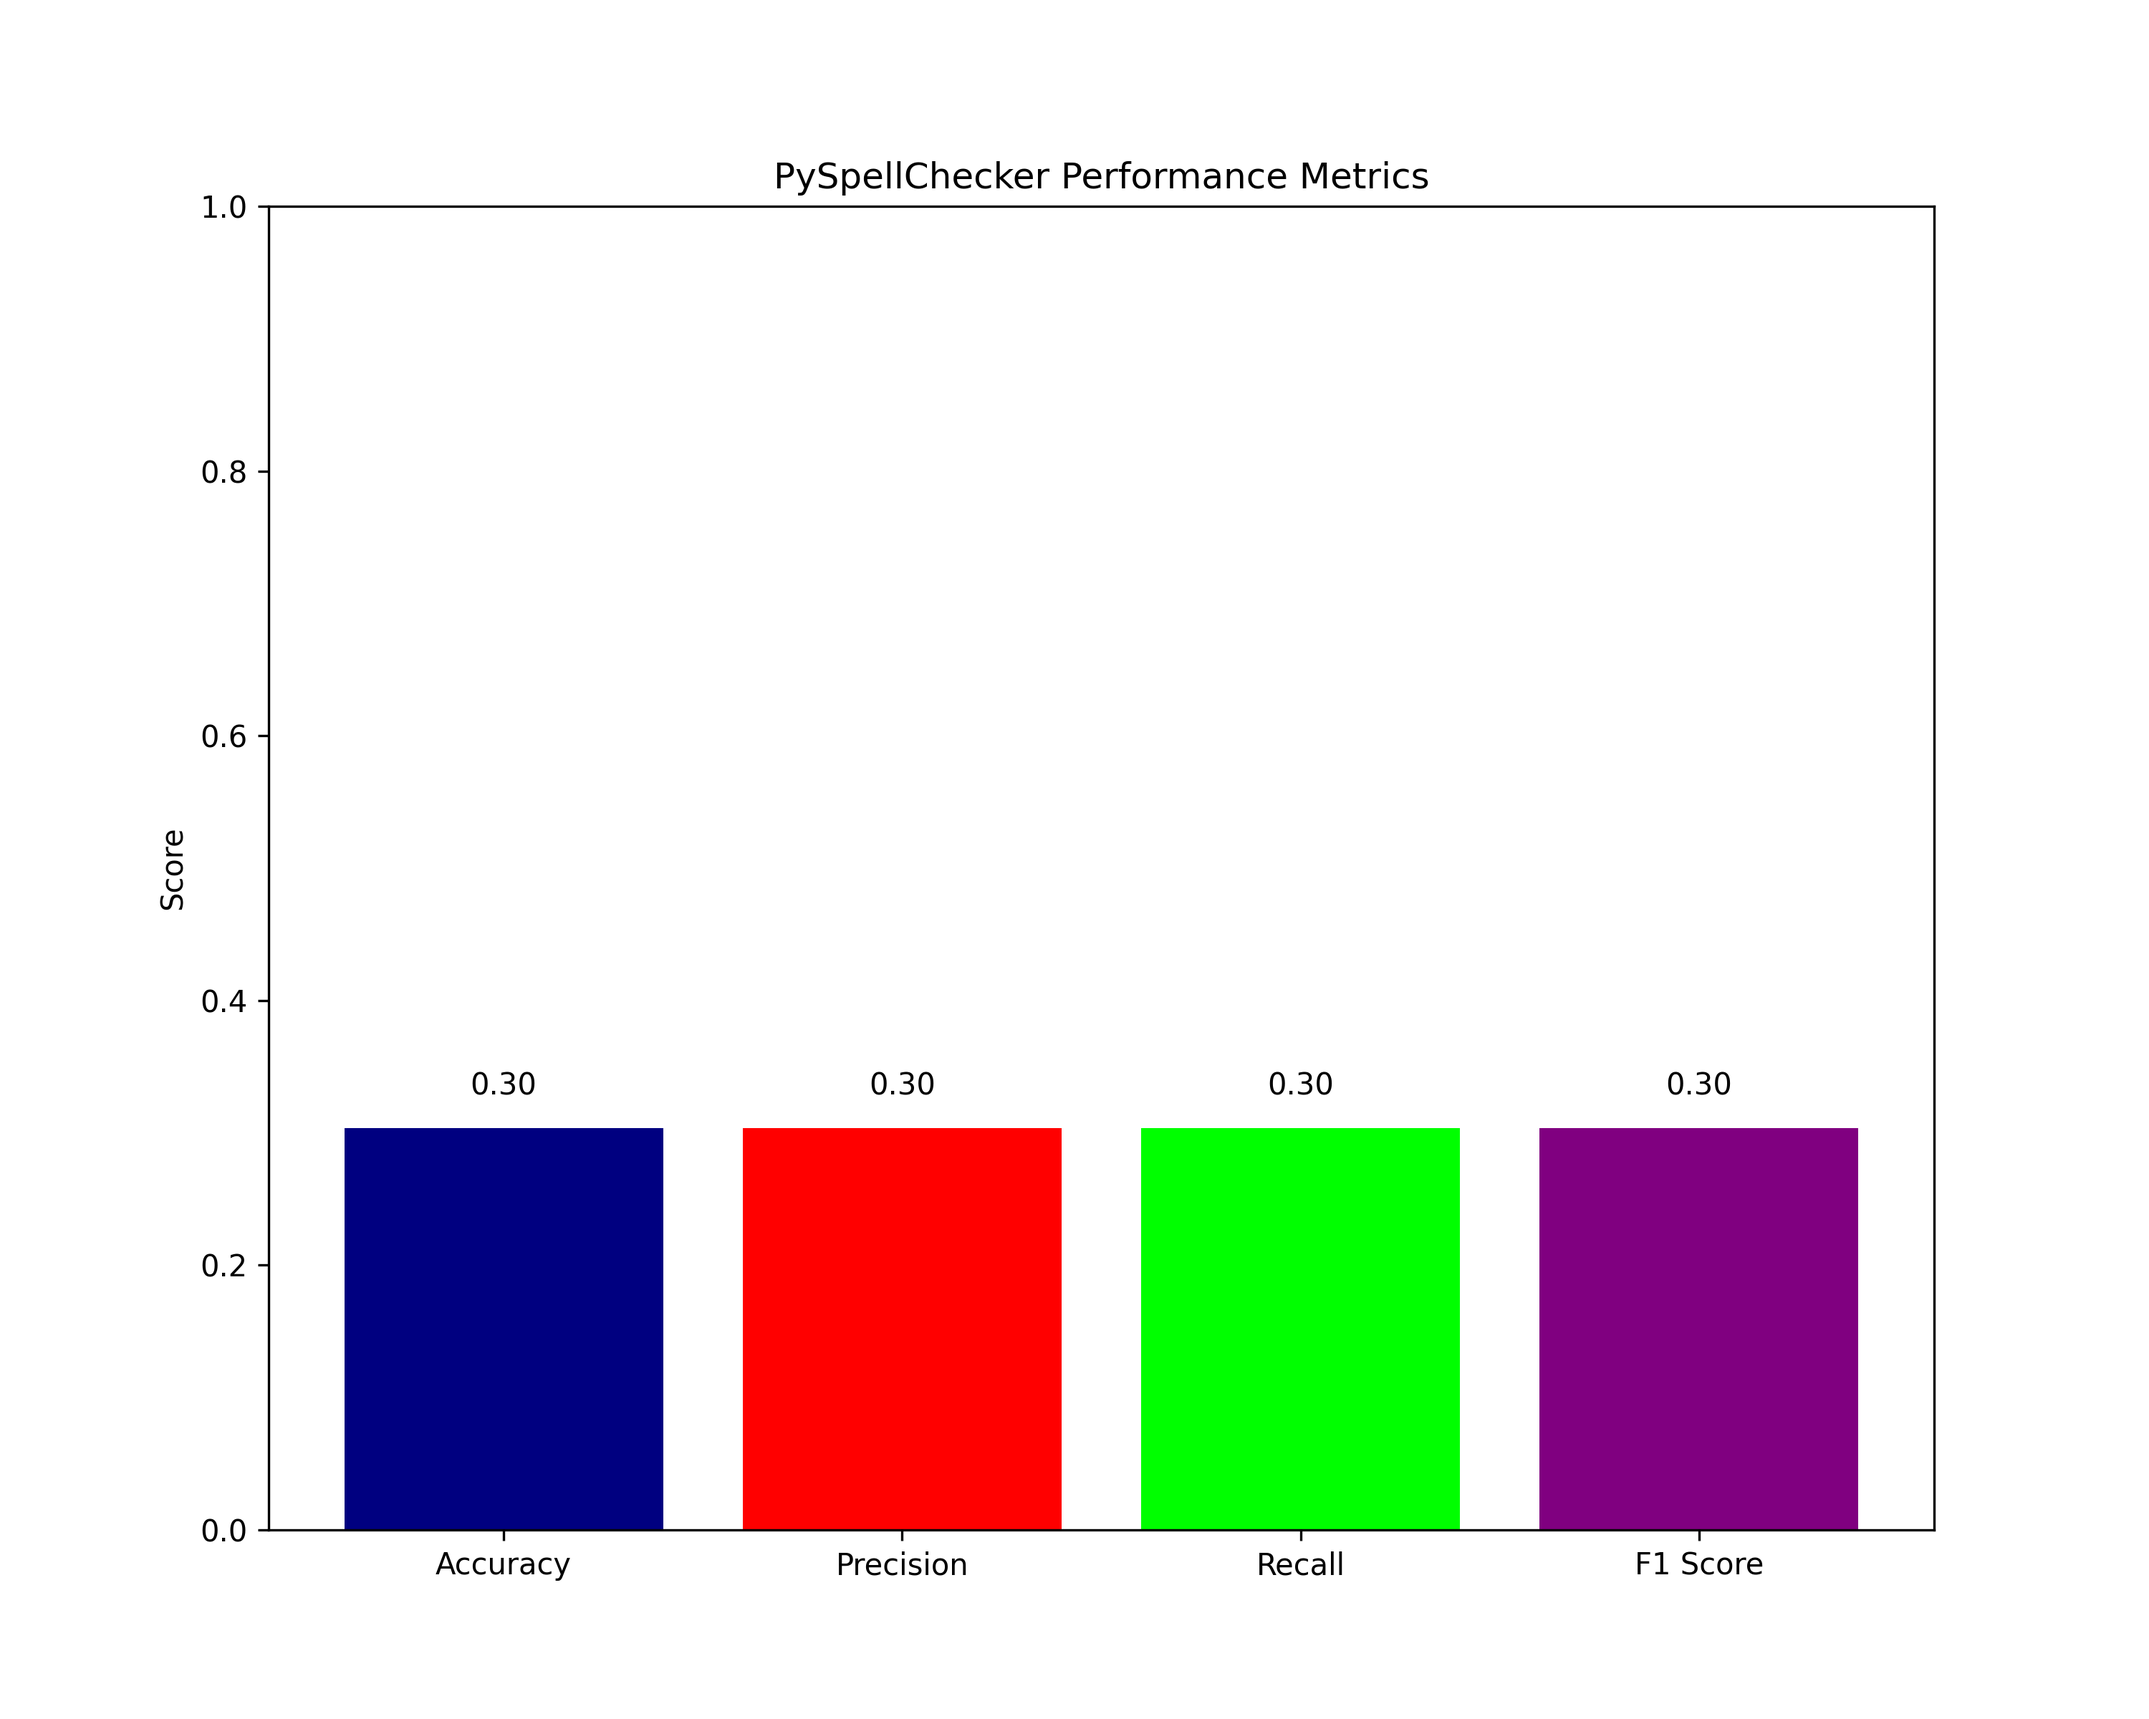
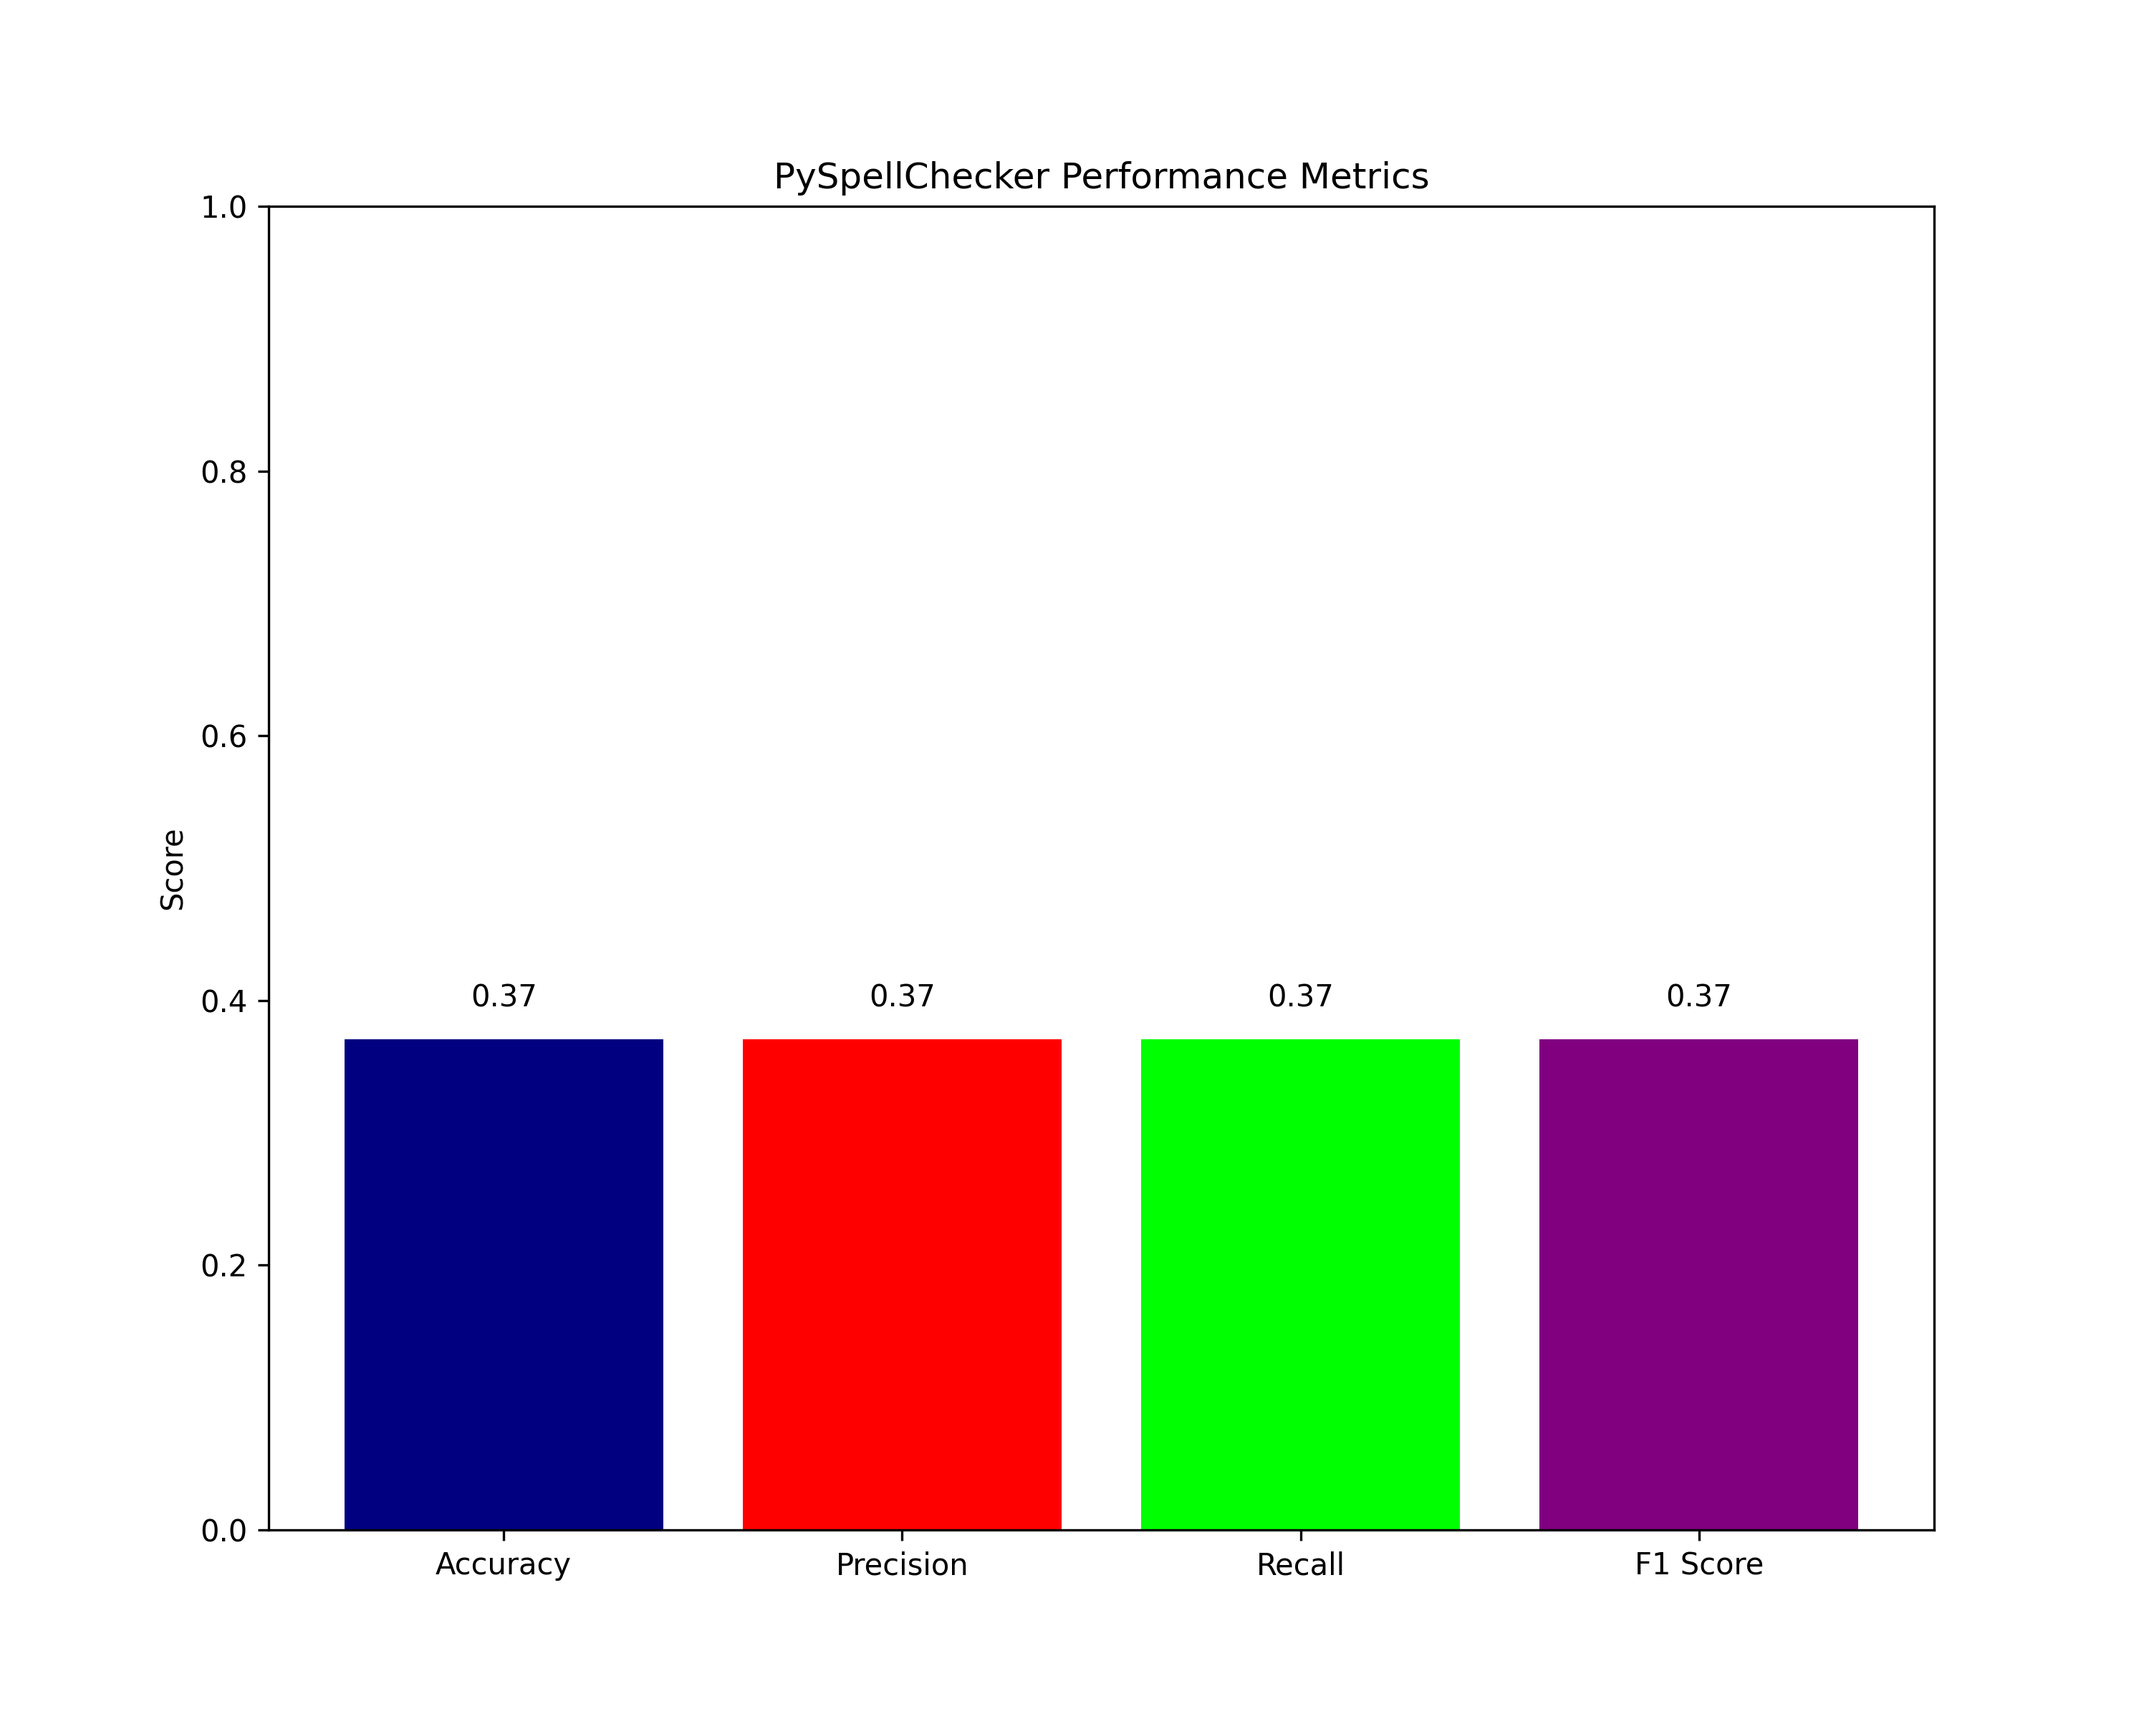
adds report and documentation in README.md

diff --git a/SpellingEvaluator.py b/SpellingEvaluator.py
@@ -8,7 +8,7 @@ from sklearn.metrics import precision_score, recall_score, f1_score
 class SpellingEvaluator:
     def __init__(self, data, sample):
         self.data = data
-        self.sample = sample
+        self.sample = sample if len(data.keys()) >= sample else len(data.keys())
 
     def prepSample(self):
         sample_keys = random.sample(list(self.data.keys()), self.sample)

diff --git a/README.md b/README.md
@@ -1,2 +1,85 @@
 # Writing-Assistance-Tools-Evaluation
 Evaluates available writing assistance tools
+
+
+## Documentation 
+* __tools__
+    - spelling ckeckers like PySpellChecker library and TextBlob library are used in this project
+        - PySpellChecker is lightweight, faster, and best for simple, standalone spell-checking tasks on common English words
+        - TextBlob is more complex tool that provides NLP functionalities and can be used to correct misspellings in not complex contexts
+    - matplotlib.pyplot module is used to prepare charts presenting results of PySpellChecker and TextBlob corrections
+    - sklearn.metrics module from scikit-learn lib is used to calculate F-score of correction results for both correction libs
+
+* __dataset used to evaluate PySpellChecker and TextBlob is '_missp.txt_' file available in this repository__
+    - '_missp.txt_' dataset comes from [https://www.dcs.bbk.ac.uk/~ROGER/corpora.html](https://www.dcs.bbk.ac.uk/~ROGER/corpora.html)
+
+        _"It is an amalgamation of errors taken from the native-speaker section (British or American writers) of the Birkbeck spelling error corpus, a collection of files of spelling errors gathered from various sources, available as separate files with detailed documentation from the Oxford Text Archive. It includes the results of spelling tests and errors from free writing, taken mostly from schoolchildren, university students or adult literacy students. Most of them were originally handwritten."_
+    - if one want to evaluate those libs using own dataset it should be prepared like that:
+    ```shell
+    $correctly_spelled_word_1
+    misspelling_1
+    misspelling_2
+    ...
+    $correctly_spelled_word_2
+    misspelling_1
+    misspelling_2
+    ...
+    ```
+
+* __metrics__
+    - accuracy -> (well corrected words / total corrections)
+    - precision -> TP / (TP + FP)
+    - recall -> TP / (TP + FN)
+    - f1-score -> 2*precision*recall / (precision + recall)
+      - True Positives (TP): Model correctly suggests the right correction.
+      - False Positives (FP): Model suggests a correction, but it’s incorrect.
+      - False Negatives (FN): Model fails to suggest any correct correction when there is a misspelling.
+
+
+## Report 
+
+*  __approach and ideas__
+    - I decided to evaluate tools that corrects given misspelled words without context
+    - The idea was to test few of them, compare the results and decide if libs correcting words without context are usefull and effective and if so in which situations/under which conditions they can be usefull
+
+* __results and conclusions__
+    - for dataset _'missp.txt'_ results of used metrics - accuracy, precision, recall and f1-score - have the same value
+        - it happens because used dataset contains only commonly known dictionary words so that each model can generate at least one potential correction for given misspellings - due to that FN (False Negtive) value is 0 and all metrics come down to accuracy
+    - metrics would differ if one used dataset with less known words like slang or more misspelled examples for which model wouldn't be able to suggest corrections
+    - for both models results/used metrics is approximately 0.3 (usually in range between 0.2 and 0.4)
+    - PySpellChecker perfoms a bit better than TextBlob - PySpellChecker is bulilt for simple corrections like those and performs the best on simple dictionary datasets like the one used, beacuse it is far less complex than TextBlob it's also much faster model, on the other hand TextBlob produced a bit worse results in this experiment so that shows that TextBlob as NLP tool performs best when given a context not a single word
+    - Although results of this experiment are quite low when it comes to misspelling corrections without given context, I find simple tools like those usefull in more advanced projects:
+        - trained NLP models or LLM with given context would always outperform simple models like those but due to their complexness they are also much slower than tools like PySpellChecker
+        - so while working with more complex text corrections writing assistnace tools could correct misspelings in 2 ways:
+            - first, detect simple and common parts of text/code (like for loop structure) on which probability of good dictionary correction is high - on those text parts would be used simple spelling checker that would also perform pretty fast (to enhance performance I would add to those tools function that gets information of how often user/writer uses specific word and then with use of that function there would be choosen most probable correction from models list of possible corrections - for example model would choose the one that is used the most)
+            - second, NLP models or LLMs would focus on correcting more complex parts that would require context to determine misspelling corrections with high probability of success.
+
+    The eesults of an example script execution are saved as bar charts in .png format: 
+   
+    ![PySpellChecker_Metrics.png](PySpellChecker_Metrics.png)
+    
+    ![TextBlob_Metrics.png](TextBlob_Metrics.png)
+
+
+## Run and locally reproduce the results
+
+* __prepare environment__
+
+   ```shell
+    python3 -m venv venv
+    source venv/bin/activate
+    pip install -r requirements.txt
+    ```
+
+* __run script__
+    ```shell
+    python3 main.py --path 'path_to_dataset_file' --sample integer
+    ```
+    - --path or -p argument requires path to dataset file saved in same format as 'missp.txt'
+    ($word is correctly spelled word and other ones are those misspelled to correct)
+    - --sample or -s argument is integer number of how sets of correct word and list of it's misspellings would be corrected and evaluated
+    (if number is bigger than number of such sets in whole dataset, then whole dataset would be corrected and evaluated)
+    - __it's strongly recommended to reproduce results using '_missp.txt_' dataset which is already correctly formatted for DataPreparer.readData(path) method or preapare own dataset__
+
+* __reproduced results__
+    - results of running script and evaluating both libs are saved as bar charts in files _'PySpellChecker_Metrics.png'_ and _'TextBlob_Metrics.png'_
